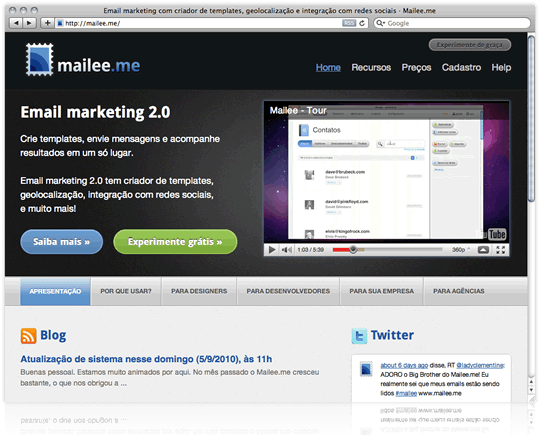
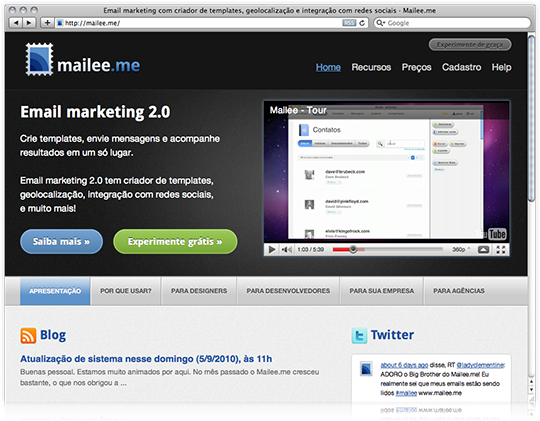
mais alterações.

diff --git a/public/stylesheets/screen.css b/public/stylesheets/screen.css
@@ -247,18 +247,19 @@ body #content #softa_description h1 em.web_two.passed, body #content #softa_desc
 }
 /* line 43, ../../app/stylesheets/partials/_description.sass */
 body #content #softa_description .call_to_action {
-  background-color: #8cc63f;
   background-image: url(/images/call_to_action.png);
   background-position: left top;
   width: 400px;
   height: 48px;
   display: block;
+  float: right;
   margin-left: 18%;
+  margin-top: -1em;
   font-size: 28px;
   text-align: center;
   text-indent: -10000em;
 }
-/* line 55, ../../app/stylesheets/partials/_description.sass */
+/* line 56, ../../app/stylesheets/partials/_description.sass */
 body #content #softa_description .call_to_action:hover {
   background-position: right top;
 }
@@ -385,11 +386,36 @@ body #content #softa_mailee .work_showcase_image {
   overflow-x: hidden;
 }
 
+/* line 67, ../../app/stylesheets/partials/_mailee.sass */
+.mailee_signup_bar {
+  background: #666666;
+  height: 70px;
+  border-top: 1px solid #555555;
+}
+/* line 72, ../../app/stylesheets/partials/_mailee.sass */
+.mailee_signup_bar .wrapper h2 {
+  z-index: 60;
+}
+/* line 74, ../../app/stylesheets/partials/_mailee.sass */
+.mailee_signup_bar .wrapper h2 a.mailee_call_to_action {
+  background-image: url(/images/mailee_call_to_action.png);
+  background-position: left top;
+  width: 325px;
+  margin-top: 12px;
+  height: 48px;
+  display: block;
+  text-indent: -10000em;
+}
+/* line 83, ../../app/stylesheets/partials/_mailee.sass */
+.mailee_signup_bar .wrapper h2 a.mailee_call_to_action:hover {
+  background-position: right top;
+}
+
 /* line 2, ../../app/stylesheets/partials/_methodology.sass */
 body #content .methodology_torned_paper {
-  height: 84px;
+  height: 14px;
   background-color: #cccccc;
-  background-image: url(/images/methodology/methodology_torned_paper.gif);
+  background-image: url(/images/methodology/methodology_torned_paper_alt.gif);
   background-repeat: repeat-x;
   background-attachment: scroll;
   background-position: center top;

diff --git a/app/stylesheets/partials/_mailee.sass b/app/stylesheets/partials/_mailee.sass
@@ -62,4 +62,24 @@ body #content
     .work_showcase_image
       +column(14)
       text-align: right
-  .work_showcase
+h2
+  a.mailee_call_to_action
+.mailee_signup_bar
+  background: #666
+  height: 70px
+  border-top: 1px solid #555
+  .wrapper
+    h2
+      z-index: 60
+      a.mailee_call_to_action
+        background:
+          image: url(/images/mailee_call_to_action.png)
+          position: left top
+        width: 325px
+        margin-top: 12px
+        height: 48px
+        display: block
+        text-indent: -10000em
+        &:hover
+          background-position: right top
+

diff --git a/app/stylesheets/partials/_description.sass b/app/stylesheets/partials/_description.sass
@@ -42,13 +42,14 @@ body #content #softa_description
           color: #666
   .call_to_action
     background:
-      color: $green
       image: url(/images/call_to_action.png)
       position: left top
     width: 400px
     height: 48px
     display: block
+    float: right
     margin-left: 18%
+    margin-top: -1em
     font-size: 28px
     text-align: center
     text-indent: -10000em

diff --git a/app/stylesheets/partials/_methodology.sass b/app/stylesheets/partials/_methodology.sass
@@ -1,9 +1,9 @@
 body #content
   .methodology_torned_paper
-    height: 84px
+    height: 14px
     background:
       color: #ccc
-      image: url(/images/methodology/methodology_torned_paper.gif)
+      image: url(/images/methodology/methodology_torned_paper_alt.gif)
       repeat: repeat-x
       attachment: scroll
       position: center top
